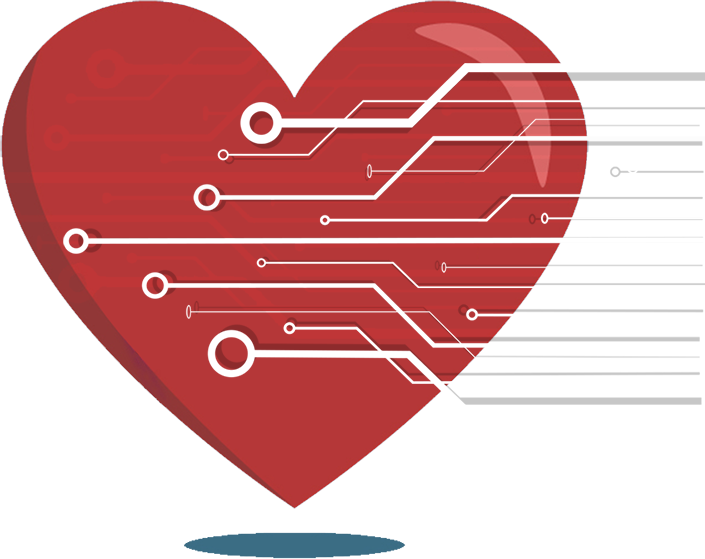
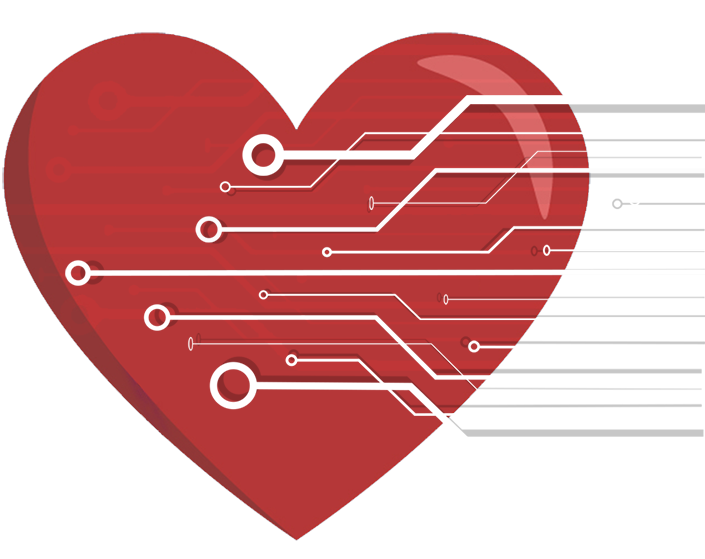
new about us approach

Changed region(s): [[0.0, 0.0, 1.0, 1.0], [0.6553, 0.7603, 0.9986, 0.7907]]

diff --git a/app/containers/About/About.js b/app/containers/About/About.js
@@ -1,31 +1,72 @@
 import React, { Component } from 'react';
 import Helmet from 'react-helmet';
-import { Divider, SectionItem } from 'components';
+import { SectionItem } from 'components';
+import throttle from '../../helpers/Throttle';
+import data from './about-data.json';
 import './About.scss';
 
-const settings = {
-  "smallHeader": "Quartile",
-  "header": "About Us",
-  "description": "We are advocates of simplicity and transparency. With over ten years experience in the advertising business, it is safe to say that we gained excellent exposure and grasp in all industry-leading solutions. We place the highest emphasis on immersive experience design, where we collaborate with our clients to deliver comprehensive solutions that meet their even most demanding business goals. Our agency originated in the very heart of London's silicon roundabout, where most of our tech talent was acquired. Get in touch with us, see how our award-winning service differs from others.",
-  "buttonText": "Contact US",
-  "link": "",
-  "sectionClass": "about",
-  "videoLink": ""
-}
-
 export default class About extends Component {
+  componentDidMount() {
+    console.log('[about debug] HERE! ');
+    // https://www.clicktorelease.com/blog/how-to-make-clouds-with-css-3d/
+    /*
+      Defining our variables
+      world and viewport are DOM elements,
+      worldXAngle and worldYAngle are floats that hold the world rotations,
+      d is an int that defines the distance of the world from the camera
+    */
+    this.world = document.getElementById('world');
+    this.viewport = document.getElementById('viewport');
+    this.worldXAngle = 0;
+    this.worldYAngle = 0;
+    this.d = 0;
+    this.mouseActive = true;
+
+    window.addEventListener('mousemove', throttle(this.mouseHandler, 10));
+    window.addEventListener('mouseout', (e) => this.mouseLeaveHandler(e));
+    window.addEventListener('mouseover', (e) => this.mouseOverHandler(e));
+  }
+  componentWillUnmount() {
+    window.removeEventListener('mousemove', throttle(this.mouseHandler, 10));
+    window.removeEventListener('mouseout', (e) => this.mouseLeaveHandler(e));
+    window.removeEventListener('mouseover', (e) => this.mouseOverHandler(e));
+  }
+
+  mouseHandler = (e) => {
+    this.worldYAngle = -(0.5 - (e.clientX / window.innerWidth)) * 180;
+    this.worldXAngle = (0.5 - (e.clientY / window.innerHeight)) * 180;
+    this.updateView();
+  }
+  mouseOverHandler = (e) => {
+    this.mouseActive = true;
+    this.world.style.transition = 'all 0.1s';
+  }
+  mouseLeaveHandler = (e) => {
+    if (e.target.className === 'smallBox infoInView' ||
+      e.target.className === 'aboutBg imageBg' ||
+      e.target.className === 'descText' ||
+      e.target.parentNode.className === 'smallBox infoInView') {
+      return;
+    }
+    this.mouseActive = false;
+    this.world.style.transition = 'all 1s';
+    this.world.style.transform = 'translateZ(0px) rotateX(0deg) rotateY(0deg)';
+  }
+  updateView() {
+    if (!this.mouseActive) {
+      return;
+    }
+    this.world.style.transform = 'translateZ( ' + this.d + 'px ) rotateX( ' + this.worldXAngle + 'deg) rotateY( ' + this.worldYAngle + 'deg)';
+  }
+
   render() {
     return (
       <div className={'about'}>
-        <Helmet>
-        <title>About Us</title>
-          <meta
-            name="description"
-            content="Feature page of React.js Boilerplate application"
-          />
-        </Helmet>
-        <SectionItem inView key={0} offset={0} order={0} {...settings} link="about" />
-        <Divider colour="white" />
+        <Helmet title="About Us" />
+        <div id="viewport">
+          <div id="world"></div>
+        </div>
+        <SectionItem inView key={0} offset={0} order={0} {...data['About Us']} link="about" />
       </div>
     );
   }

diff --git a/app/components/SectionItem/SectionItem.scss b/app/components/SectionItem/SectionItem.scss
@@ -2,7 +2,6 @@
   height: 100vh;
   min-height: 250px;
   background-size: cover !important;
-  overflow: hidden;
   position: relative;
   display:block;
   width: 100%;
@@ -153,10 +152,11 @@
     left: 8%;
     z-index: 2;
     width: 506px;
+    overflow: hidden;
     color: white;
     line-height: 1.42857;
     font-family: 'Didact Gothic', sans-serif;
-    transition: all 0.4s ease 0s;
+    transition: all 1s ease 0s;
     background-color: rgba(0,0,0,0.5);
     -moz-box-shadow: 1px 2px 3px rgba(0,0,0,.5);
     -webkit-box-shadow: 1px 2px 3px rgba(0,0,0,.5);

diff --git a/app/containers/About/About.scss b/app/containers/About/About.scss
@@ -4,3 +4,26 @@
     height: 100%;
   }
 }
+#viewport {
+  bottom: 0;
+  left: 0;
+  overflow: hidden;
+  perspective: 400px;
+  position: absolute;
+  right: 0;
+  top: 0;
+}
+
+#world {
+  height: 512px;
+  left: 50%;
+  margin-left: -256px;
+  margin-top: -256px;
+  position: absolute;
+  top: 50%;
+  transform-style: preserve-3d;
+  width: 512px;
+  // background-color: rgba( 255, 0, 0, .2 );
+  background: url(./quote.png) center center no-repeat scroll;
+  background-size: contain;
+}

diff --git a/app/containers/Front/Front.js b/app/containers/Front/Front.js
@@ -30,6 +30,8 @@ export default class Front extends PureComponent {
   }
 
   componentWillUnmount() {
+    window.removeEventListener('scroll', throttle(this.props.mainWindowScrollAction, 100));
+    
     // this.props.updateMaxPages(1);
   }
 
